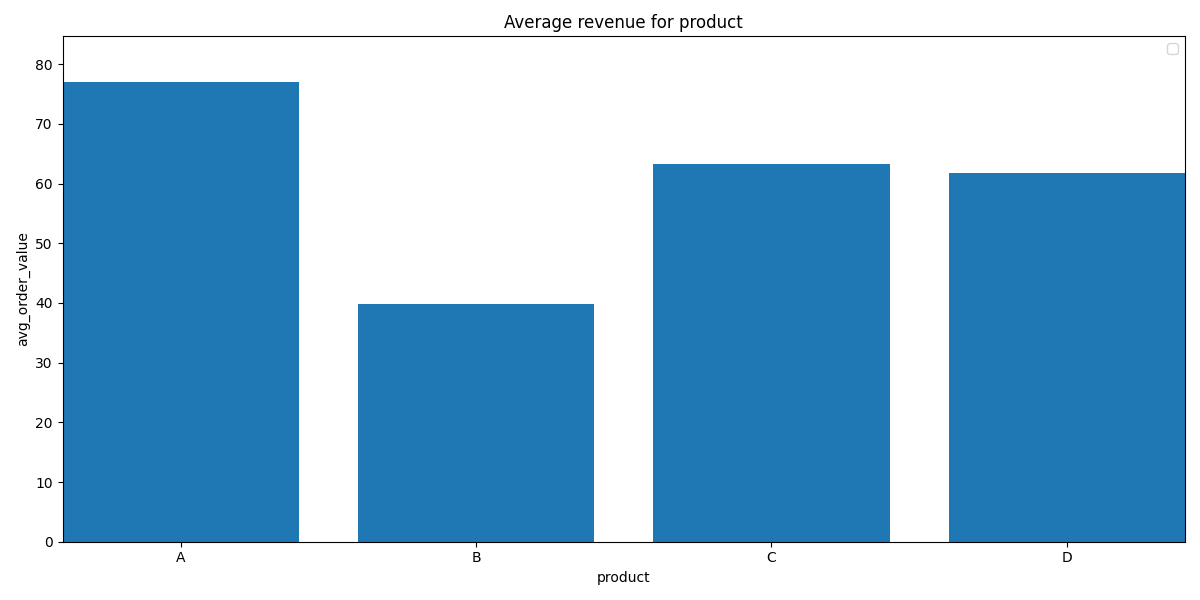
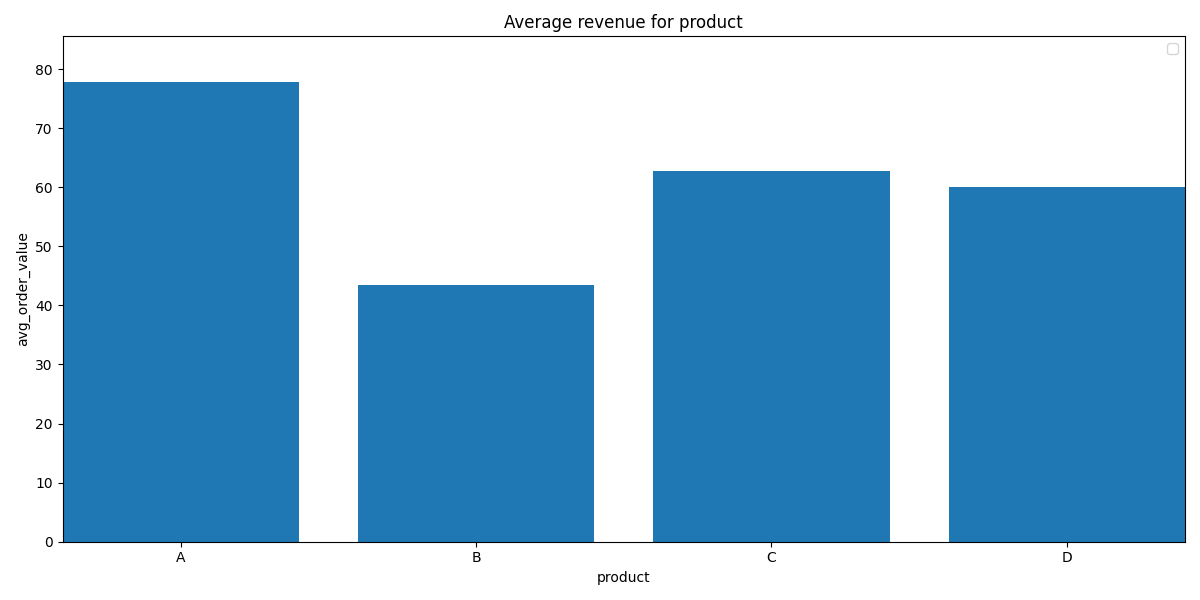
Fix wrong averaging

diff --git a/wh/src/task2.py b/wh/src/task2.py
@@ -97,12 +97,16 @@ def _data_average(df: pd.DataFrame) -> None:
     df = df[~((df["order_count"] == 0) & (df["revenue"] != 0))]
 
     # Calculate average order value by product
-    df["avg_order_value"] = df["revenue"] / df["order_count"]
-    avg_order_value_by_product = (
-        df.groupby("product")["avg_order_value"].mean().reset_index()
+    product_stats = (
+        df.groupby("product")
+        .agg({"revenue": "sum", "order_count": "sum"})
+        .reset_index()
+    )
+    product_stats["avg_order_value"] = (
+        product_stats["revenue"] / product_stats["order_count"]
     )
     _bar_plot_figure(
-        avg_order_value_by_product,
+        product_stats,
         "product",
         "avg_order_value",
         "data/average_revenue_product.png",
@@ -110,12 +114,16 @@ def _data_average(df: pd.DataFrame) -> None:
     )
 
     # Calculate average order value by provider
-    df["avg_order_value"] = df["revenue"] / df["order_count"]
-    avg_order_value_by_provider = (
-        df.groupby("provider")["avg_order_value"].mean().reset_index()
+    provider_stats = (
+        df.groupby("provider")
+        .agg({"revenue": "sum", "order_count": "sum"})
+        .reset_index()
+    )
+    provider_stats["avg_order_value"] = (
+        provider_stats["revenue"] / provider_stats["order_count"]
     )
     _bar_plot_figure(
-        avg_order_value_by_provider,
+        provider_stats,
         "provider",
         "avg_order_value",
         "data/average_revenue_provider.png",
@@ -156,7 +164,7 @@ def _sales_trend(df: pd.DataFrame) -> None:
 
 
 def _calculate_commission(row: pd.Series) -> int:
-    provider = int(row["provider"])
+    provider = row["provider"]
     order_count = int(row["order_count"])
 
     if provider == "tom_jerry":
